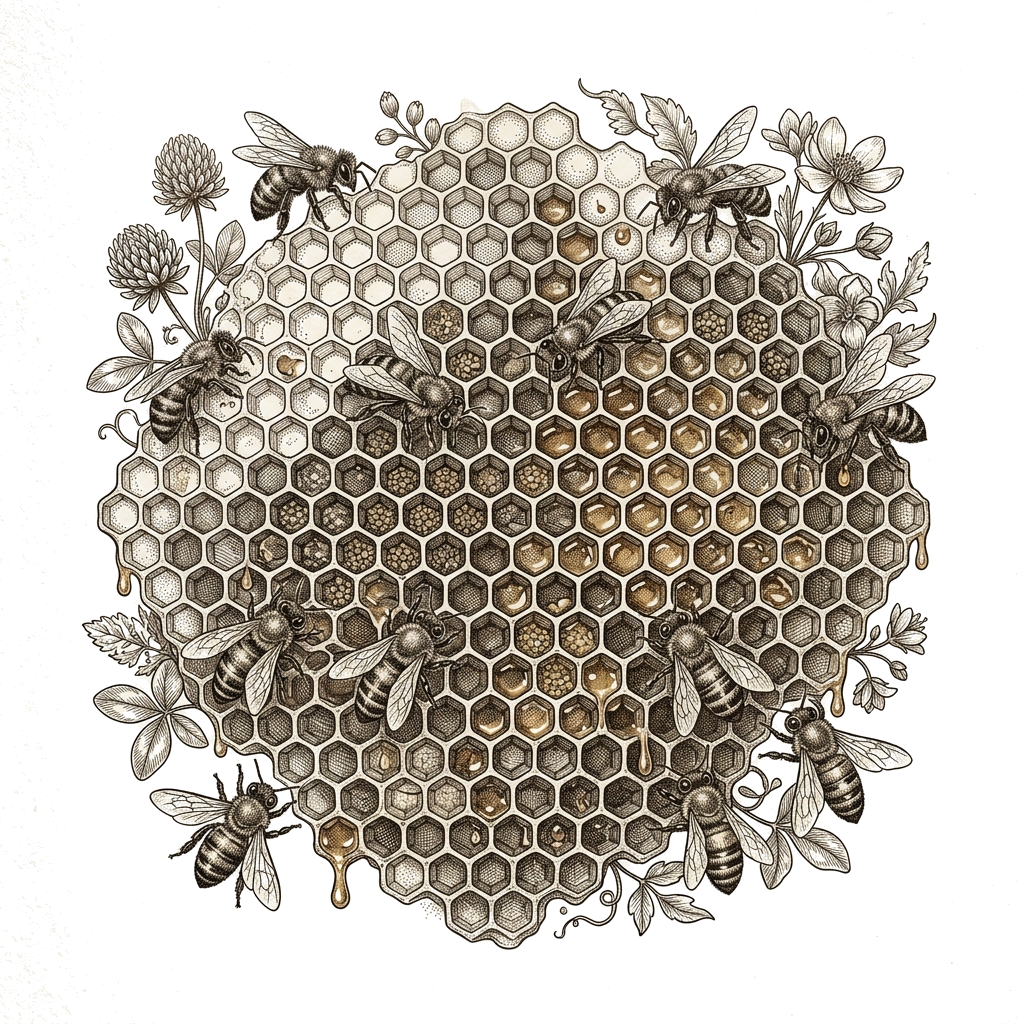
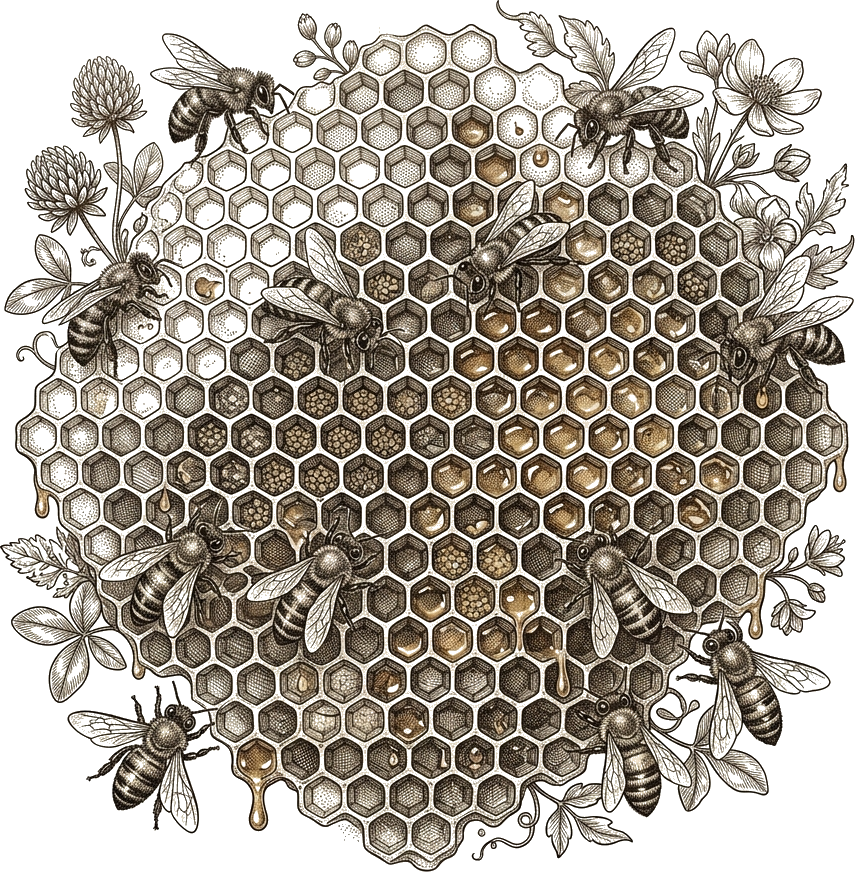
Fix production Supabase configuration

diff --git a/src/components/site/HomeSections.tsx b/src/components/site/HomeSections.tsx
@@ -606,14 +606,14 @@ export function HomeFarmBanner({ settings }: { settings?: Record<string, any> })
         </div>
 
         {/* 2. Four Heritage Story Points */}
-        <div className="grid grid-cols-1 sm:grid-cols-2 lg:grid-cols-4 gap-12 sm:gap-8 max-w-7xl mx-auto mb-20 sm:mb-28">
+        <div className="grid grid-cols-2 lg:grid-cols-4 gap-4 gap-y-8 sm:gap-8 max-w-7xl mx-auto mb-16 sm:mb-28">
           {storyPoints.map((point, idx) => (
             <div key={idx} className="flex flex-col items-center text-center">
-              <div className="h-[120px] sm:h-[150px] aspect-square mb-6 transition-transform duration-700 hover:-translate-y-2 flex items-center justify-center">
+              <div className="h-[90px] sm:h-[150px] aspect-square mb-4 sm:mb-6 transition-transform duration-700 hover:-translate-y-2 flex items-center justify-center">
                 <img src={point.img} alt={point.title} className="w-full h-full object-contain" />
               </div>
-              <h3 className="font-serif text-[20px] sm:text-[22px] text-espresso mb-3 font-[500]">{point.title}</h3>
-              <p className="text-[14px] sm:text-[15px] text-espresso/70 leading-relaxed max-w-[280px]">
+              <h3 className="font-serif text-[16px] sm:text-[22px] text-espresso mb-2 sm:mb-3 font-[500] leading-tight">{point.title}</h3>
+              <p className="text-[12px] sm:text-[15px] text-espresso/70 leading-relaxed max-w-[280px]">
                 {point.desc}
               </p>
             </div>

diff --git a/src/components/site/WhatsAppFloat.tsx b/src/components/site/WhatsAppFloat.tsx
@@ -7,7 +7,7 @@ export function WhatsAppFloat() {
   const href = `https://wa.me/${whatsapp.number.replace(/\D/g, "")}?text=${encodeURIComponent(whatsapp.default_message)}`;
   return (
     <a href={href} target="_blank" rel="noopener noreferrer" aria-label="Chat on WhatsApp"
-      className="fixed z-50 bottom-4 md:bottom-6 right-4 md:right-6 w-[56px] h-[56px] md:w-[64px] md:h-[64px] hover:scale-105 transition-transform flex items-center justify-center drop-shadow-lg">
+      className="fixed z-50 bottom-[100px] md:bottom-6 right-4 md:right-6 w-[56px] h-[56px] md:w-[64px] md:h-[64px] hover:scale-105 transition-transform flex items-center justify-center drop-shadow-lg">
       <img src={whatsappLogo} alt="WhatsApp" className="w-full h-full object-contain scale-[1.6]" />
     </a>
   );

diff --git a/src/components/site/Footer.tsx b/src/components/site/Footer.tsx
@@ -255,17 +255,7 @@ export function Footer() {
         </div>
       </div>
 
-      {/* Scroll to Top */}
-      {showTopBtn && (
-        <button
-          type="button"
-          onClick={scrollToTop}
-          aria-label="Scroll to top of page"
-          className="fixed bottom-24 right-4 md:right-6 z-40 size-11 sm:size-12 rounded-full bg-[#2B1D14] hover:bg-[#C57A1C] text-[#FBF7F0] flex items-center justify-center transition-all duration-300 shadow-xl hover:scale-110 hover:-translate-y-0.5 cursor-pointer"
-        >
-          <ArrowUp className="size-4.5 sm:size-5" />
-        </button>
-      )}
+
     </footer>
   );
 }

diff --git a/remove_bg.py b/remove_bg.py
@@ -6,6 +6,8 @@ def make_transparent(input_path, output_path, tolerance=220):
     datas = img.getdata()
 
     newData = []
+    # Using a threshold approach: if all R, G, B are above tolerance, it's background
+    # Since background is (240, 234, 222), a tolerance of 210 should catch it
     for item in datas:
         if item[0] >= tolerance and item[1] >= tolerance and item[2] >= tolerance:
             newData.append((255, 255, 255, 0))
@@ -22,8 +24,5 @@ def make_transparent(input_path, output_path, tolerance=220):
     img.save(output_path, "PNG")
 
 if __name__ == "__main__":
-    if len(sys.argv) < 3:
-        print("Usage: python remove_bg.py <input> <output>")
-        sys.exit(1)
-    make_transparent(sys.argv[1], sys.argv[2], 235)
+    make_transparent(sys.argv[1], sys.argv[2], 210)
     print(f"Processed {sys.argv[1]} -> {sys.argv[2]}")

diff --git a/get_bg.py b/get_bg.py
@@ -1,0 +1,3 @@
+from PIL import Image
+img = Image.open('public/images/heritage/illus_beekeeping.png')
+print(img.getpixel((0,0)))
